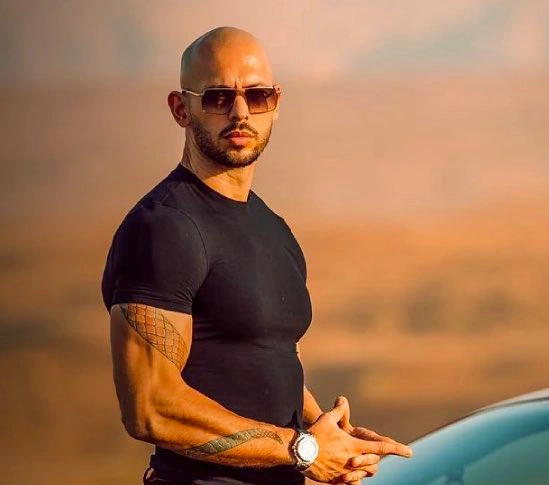
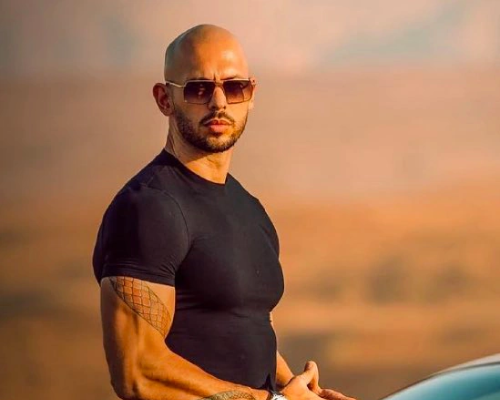
főoldal carousel méret javítva

diff --git a/index.html b/index.html
@@ -50,16 +50,19 @@
             tudásodat róla.
         </p>
 
-        <div id="fooldal_carousel" class="carousel slide col-12 " data-bs-ride="carousel">
+        <div id="fooldal_carousel" class="carousel slide col-lg-4 col-md-3" data-bs-ride="carousel">
             <div class="carousel-inner">
                 <div class="carousel-item active">
                     <img src="fajlok/kepek/tate_1.png" class="d-block w-100" >
                 </div>
                 <div class="carousel-item">
-                    <img src="fajlok/kepek/tate_2.png" class="d-block w-100">
+                    <img src="fajlok/kepek/tate_3.png" class="d-block w-100">
                 </div>
                 <div class="carousel-item">
-                    <img src="fajlok/kepek/placeholder.jpg" class="d-block w-100">
+                    <img src="fajlok/kepek/tate_4.png" class="d-block w-100">
+                </div>
+                <div class="carousel-item">
+                    <img src="fajlok/kepek/tate_5.png" class="d-block w-100">
                 </div>
             </div>
 
@@ -72,7 +75,7 @@
         </div>
 
         <div class="row szovegdoboz justify-content-center">
-            <div class="col-md-3 p-3 bg-dark shadow-lg h-50" style="border-radius: 25px;">
+            <div class="col-md-3 p-3 bg-dark shadow-lg h-50 " style="border-radius: 25px;">
                 <h1 class="text-center text-white">A kezdetek</h1>
                 <p class="text-center text-white">
                     Tate 1986. december 1-jén született Washingtonban, az Indiana

diff --git a/viccespillanatok.html b/viccespillanatok.html
@@ -11,7 +11,7 @@
 <body style="background-color: #35beda;">
 
       
-            <nav class="navbar navbar-expand-sm bg-dark navbar-dark">
+            <nav class="navbar navbar-expand-md bg-dark navbar-dark">
                   <div class="container-fluid">
                         <a href="index.html" class="navbar-brand"><img src="fajlok/kepek/sigma_tate.png" width="95px" height="60px" class="rounded-pill"></a>
                         <button class="navbar-toggler" type="button" data-bs-toggle="collapse" data-bs-target="#collapsibleNavbar">

diff --git a/erdekessegek.html b/erdekessegek.html
@@ -43,7 +43,7 @@
 </head>
 <body style="background-color: #35beda;">
 
-      <nav class="navbar navbar-expand-sm bg-dark navbar-dark">
+      <nav class="navbar navbar-expand-md bg-dark navbar-dark">
             <div class="container-fluid">
                   <a href="index.html" class="navbar-brand"><img src="fajlok/kepek/sigma_tate.png" width="95px" height="60px" class="rounded-pill"></a>
                   <button class="navbar-toggler" type="button" data-bs-toggle="collapse" data-bs-target="#collapsibleNavbar">

diff --git a/keszitok.html b/keszitok.html
@@ -10,7 +10,7 @@
 </head>
 <body style="background-color: #35beda;">
 
-      <nav class="navbar navbar-expand-sm bg-dark navbar-dark">
+      <nav class="navbar navbar-expand-md bg-dark navbar-dark">
             <div class="container-fluid">
                   <a href="index.html" class="navbar-brand"><img src="fajlok/kepek/sigma_tate.png" width="95px" height="60px" class="rounded-pill"></a>
                   <button class="navbar-toggler" type="button" data-bs-toggle="collapse" data-bs-target="#collapsibleNavbar">

diff --git a/quiz.html b/quiz.html
@@ -20,7 +20,7 @@
     </style>
 </head>
 <body style="background-color: #35beda;">
-    <nav class="navbar navbar-expand-sm bg-dark navbar-dark">
+    <nav class="navbar navbar-expand-md bg-dark navbar-dark">
         <div class="container-fluid">
               <a href="index.html" class="navbar-brand"><img src="fajlok/kepek/sigma_tate.png" width="95px" height="60px" class="rounded-pill"></a>
               <button class="navbar-toggler" type="button" data-bs-toggle="collapse" data-bs-target="#collapsibleNavbar">

diff --git a/fajlok/css/style.css b/fajlok/css/style.css
@@ -17,7 +17,7 @@ border-radius: 25px;
 }
 
 .szovegdoboz {
-gap: 70px;
+gap: 20px;
 
 }
 #fooldal_carousel {
